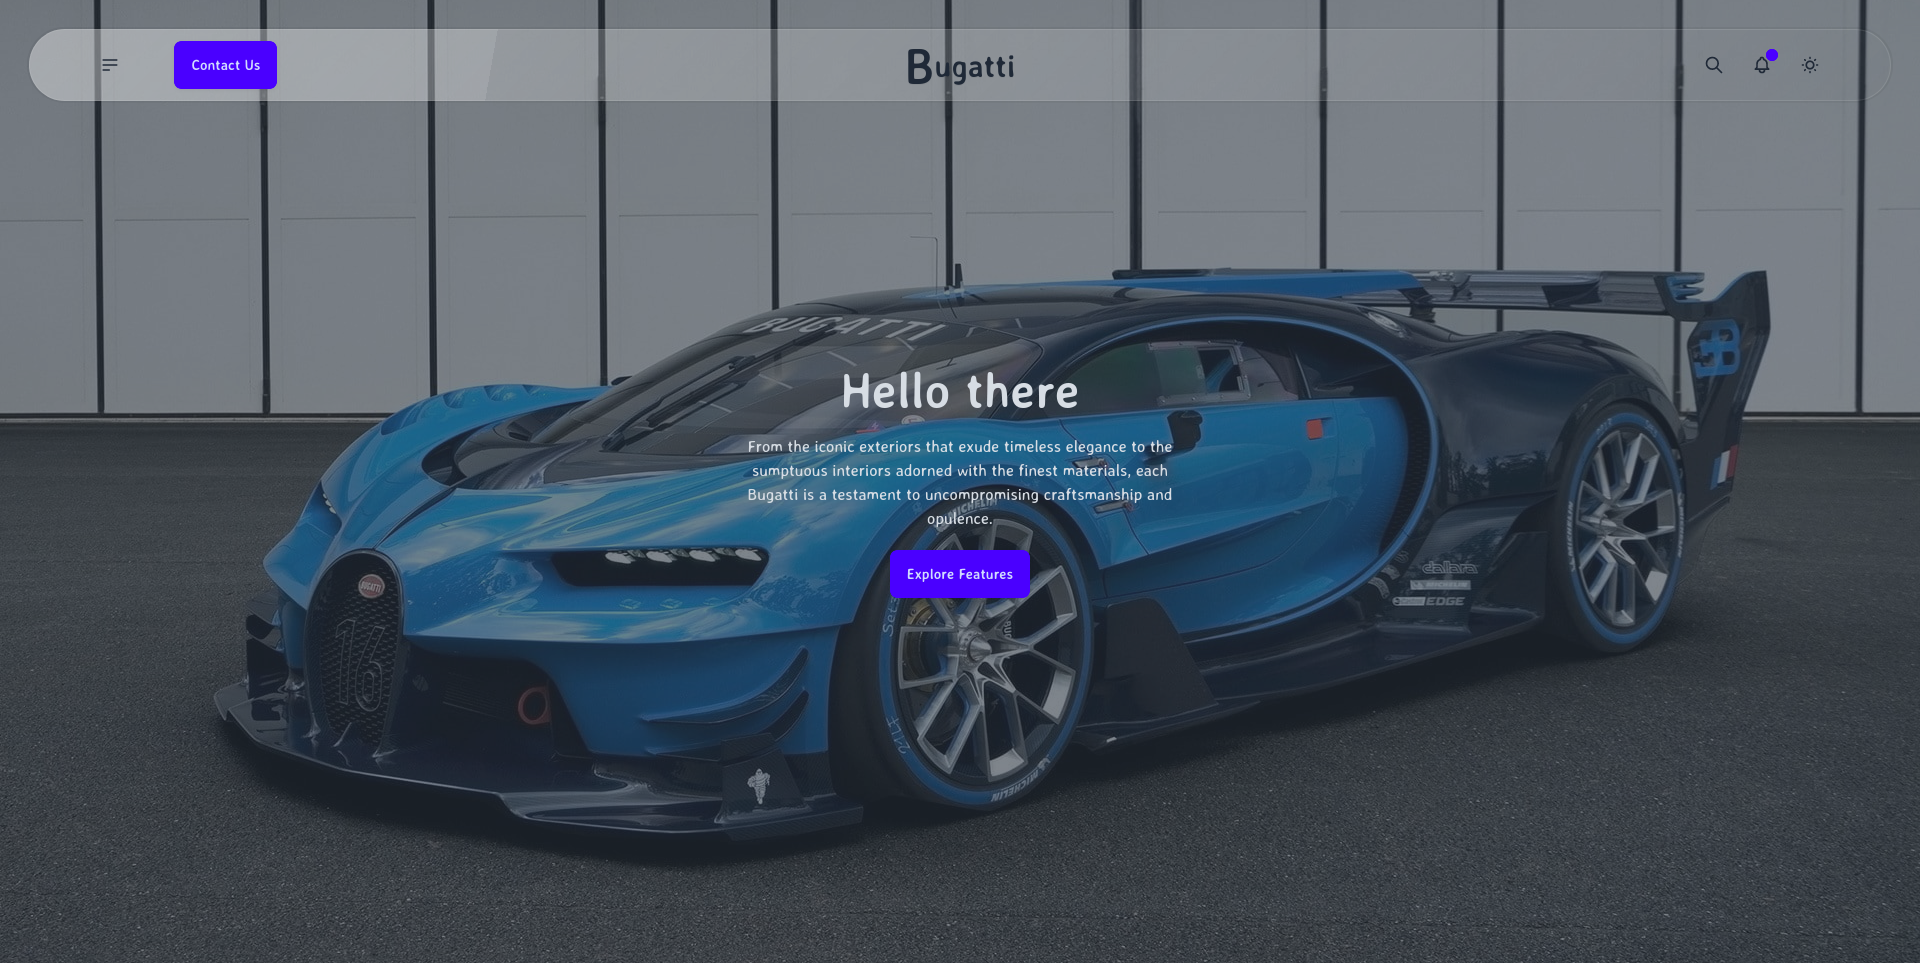
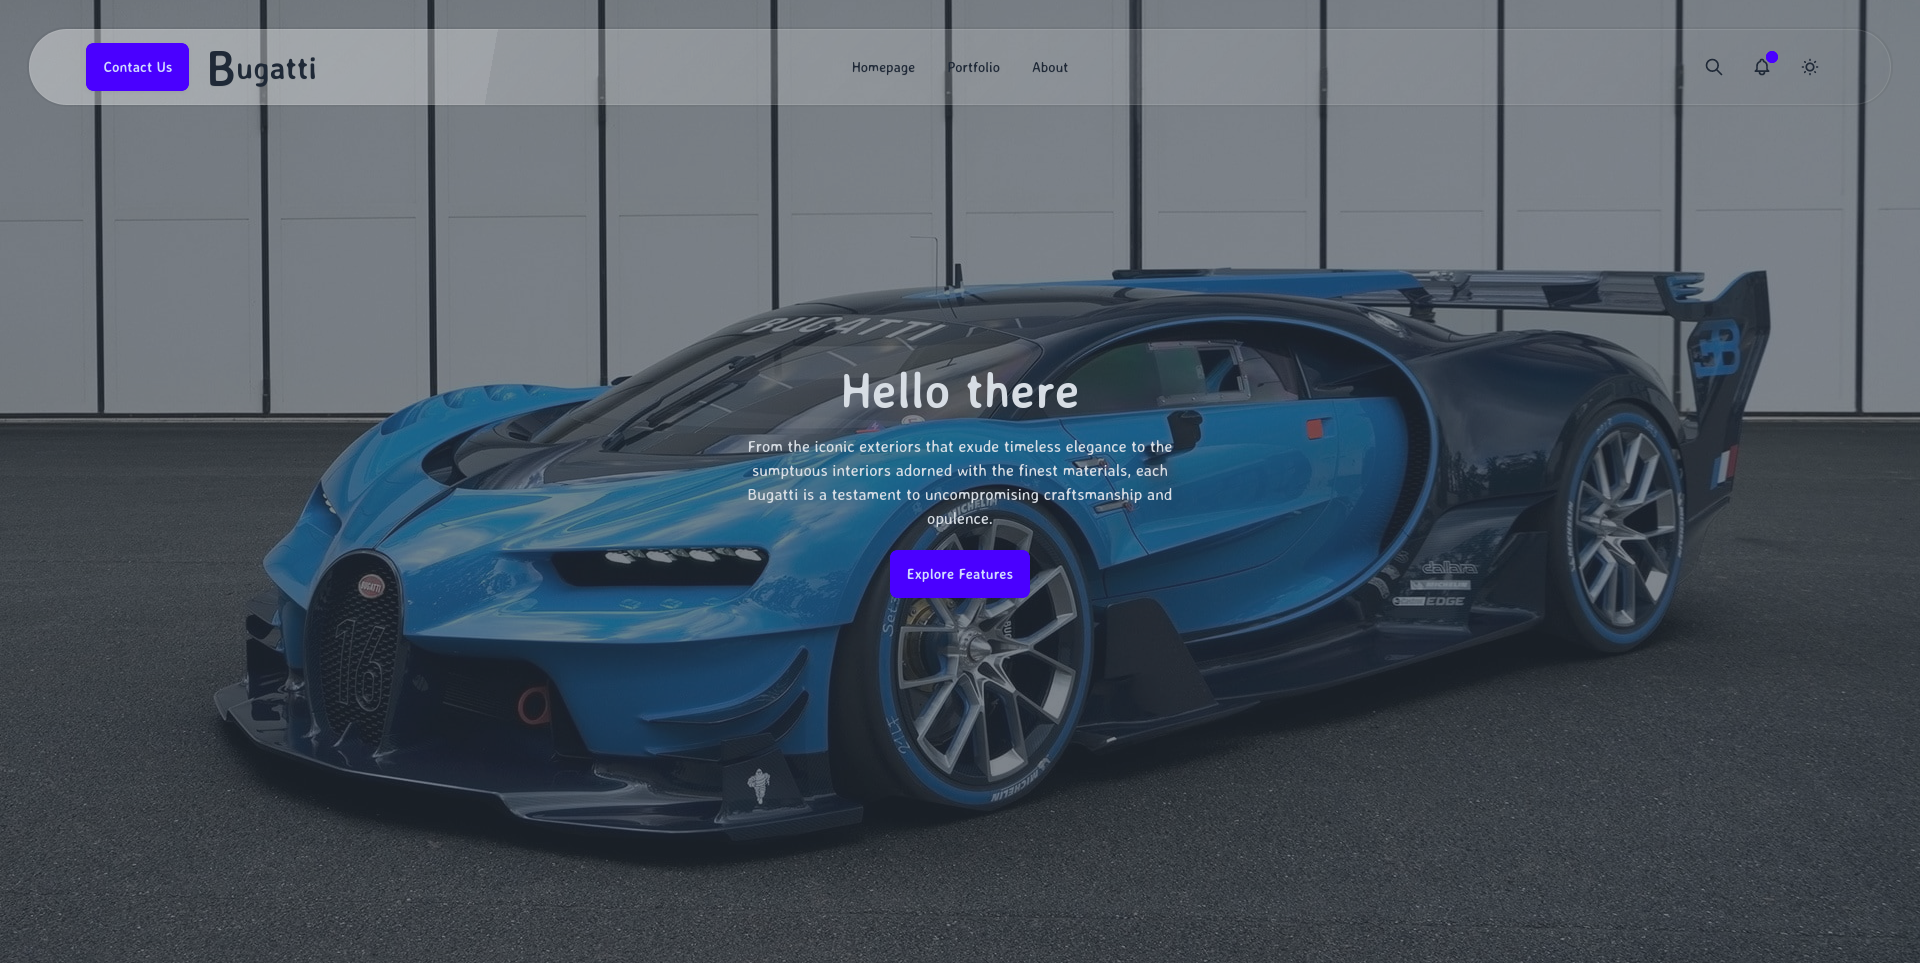
Expand dropdown on desktop view

Changed region(s): [[0.0312, 0.0312, 0.4062, 0.1246], [0.4375, 0.0623, 0.5312, 0.0935]]

diff --git a/src/components/Nav.jsx b/src/components/Nav.jsx
@@ -17,12 +17,15 @@ export default function Nav({ theme, setTheme }) {
 
 	return (
 		<div className="navbar glass mx-[1.5vw] my-[1.5vw] py-3 px-[3vw] fixed w-[97vw] z-20 rounded-full">
-			<div className="navbar-start gap-10">
-				<div className="dropdown dropdown-hover">
+			<div className="navbar-start">
+				<button className="btn btn-primary hidden lg:block">
+					Contact Us
+				</button>
+				<div className="dropdown flex">
 					<div
 						tabIndex={0}
 						role="button"
-						className="btn btn-ghost btn-circle"
+						className="btn btn-ghost lg:hidden hover:bg-primary-content"
 					>
 						<svg
 							xmlns="http://www.w3.org/2000/svg"
@@ -35,13 +38,13 @@ export default function Nav({ theme, setTheme }) {
 								strokeLinecap="round"
 								strokeLinejoin="round"
 								strokeWidth="2"
-								d="M4 6h16M4 12h16M4 18h7"
+								d="M4 6h16M4 12h8m-8 6h16"
 							/>
 						</svg>
 					</div>
 					<ul
 						tabIndex={0}
-						className="menu menu-sm dropdown-content mt-5 z-[1] p-2 shadow glass w-52"
+						className="menu menu-sm dropdown-content mt-16 z-[1] p-2 shadow glass rounded-box w-52"
 					>
 						<li>
 							<a>Homepage</a>
@@ -53,14 +56,24 @@ export default function Nav({ theme, setTheme }) {
 							<a>About</a>
 						</li>
 					</ul>
+					<a className="btn btn-ghost text-3xl flex gap-0">
+						<span className="text-5xl">B</span>
+						<span>ugatti</span>
+					</a>
 				</div>
-				<button className="btn btn-primary hidden lg:block">Contact Us</button>
 			</div>
-			<div className="navbar-center">
-				<a className="btn btn-ghost text-3xl flex gap-0">
-					<span className="text-5xl">B</span>
-					<span>ugatti</span>
-				</a>
+			<div className="navbar-center hidden lg:flex">
+				<ul className="menu menu-horizontal px-1">
+					<li>
+						<a>Homepage</a>
+					</li>
+					<li>
+						<a>Portfolio</a>
+					</li>
+					<li>
+						<a>About</a>
+					</li>
+				</ul>
 			</div>
 			<div className="navbar-end">
 				<button className="btn btn-ghost btn-circle">
@@ -136,4 +149,4 @@ export default function Nav({ theme, setTheme }) {
 Nav.propTypes = {
 	theme: PropTypes.string,
 	setTheme: PropTypes.func,
-}
+};
